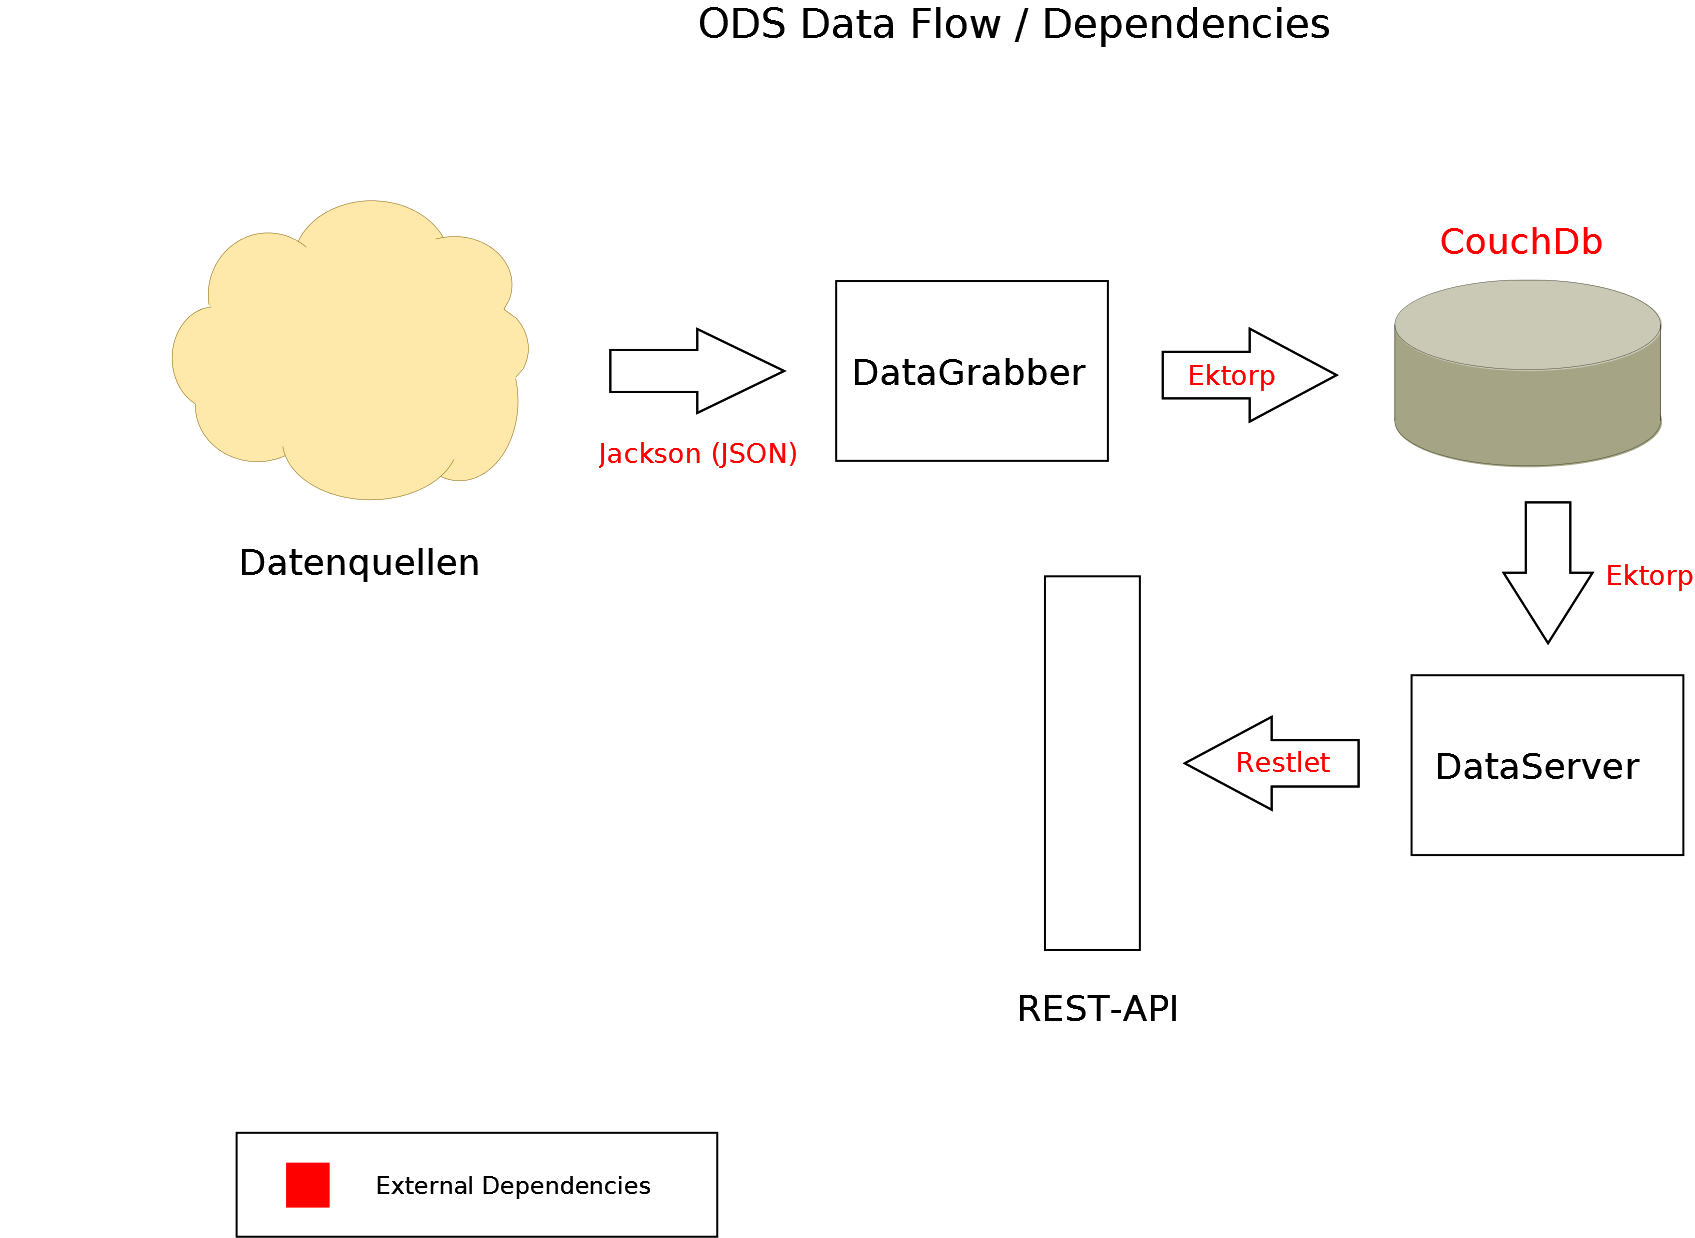
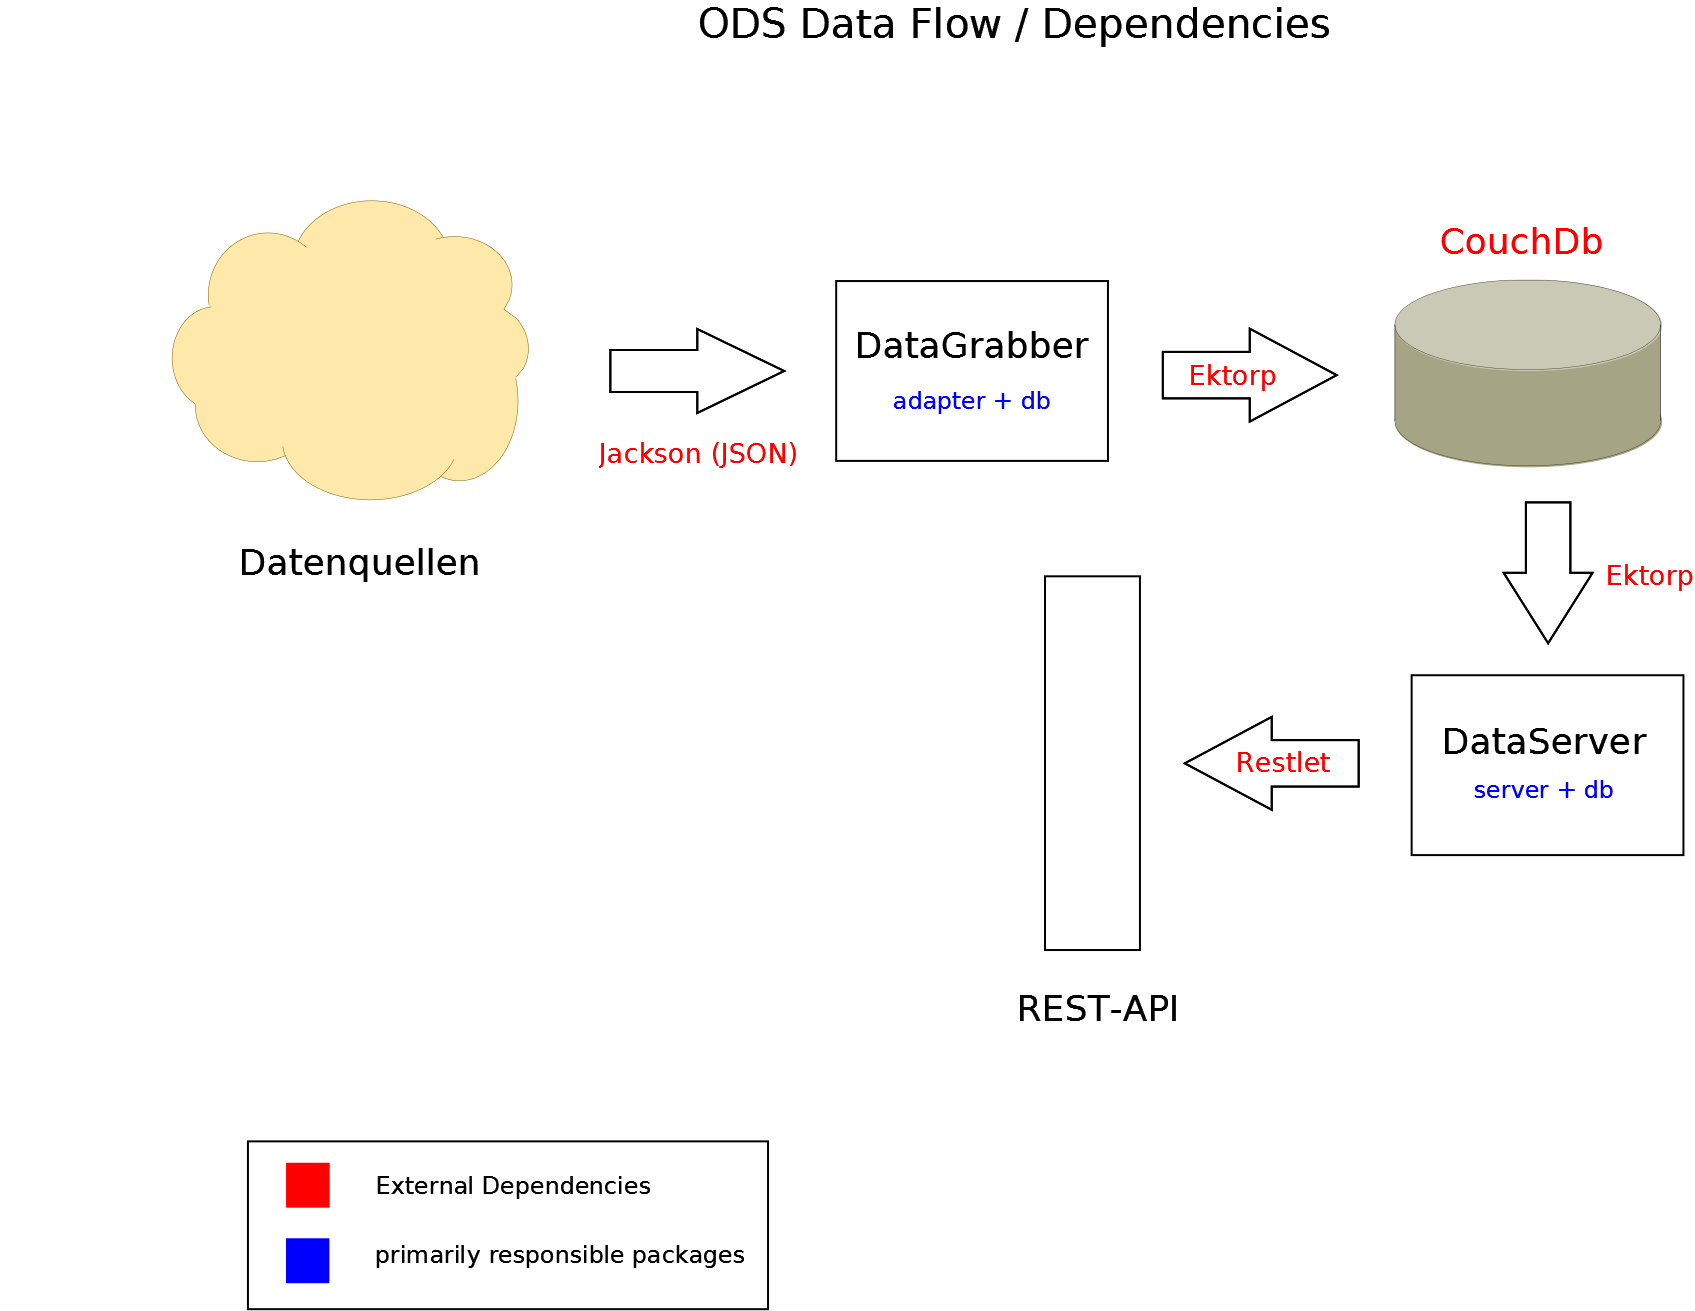
- improved project diagram - refactoring

diff --git a/src/test/java/org/jvalue/ods/main/DataServerMainTest.java b/src/test/java/org/jvalue/ods/main/DataServerMainTest.java
@@ -20,24 +20,22 @@ package org.jvalue.ods.main;
 
 import org.junit.Test;
 
-
 /**
- * The Class MainTest.
+ * The Class DataServerMainTest.
  */
-public class MainTest {
+public class DataServerMainTest {
 
 	/**
 	 * Test main.
-	 *
-	 * @throws Exception the exception
+	 * 
+	 * @throws Exception
+	 *             the exception
 	 */
 	@Test
 	public void testMain() throws Exception {
-		try
-		{
-			Main.main(null);
-		} catch (java.net.BindException ex)
-		{
+		try {
+			DataServerMain.main(null);
+		} catch (java.net.BindException ex) {
 			System.err.println("Restlet service already running");
 		}
 	}

diff --git a/src/main/java/org/jvalue/ods/main/DataGrabberMain.java b/src/main/java/org/jvalue/ods/main/DataGrabberMain.java
@@ -30,9 +30,9 @@ import com.fasterxml.jackson.core.JsonParseException;
 import com.fasterxml.jackson.databind.JsonMappingException;
 
 /**
- * The Class DbInsertMain.
+ * The Class DataGrabberMain.
  */
-public class DbInsertMain {
+public class DataGrabberMain {
 
 	/**
 	 * The main method.

diff --git a/src/main/java/org/jvalue/ods/main/DataServerMain.java b/src/main/java/org/jvalue/ods/main/DataServerMain.java
@@ -27,9 +27,9 @@ import org.jvalue.ods.server.pegelonline.PegelOnlineRouter;
 import org.restlet.Restlet;
 
 /**
- * The Class Main.
+ * The Class DataServerMain.
  */
-public class Main {
+public class DataServerMain {
 
 	/** The Constant port. */
 	private final static int port = 8182;
